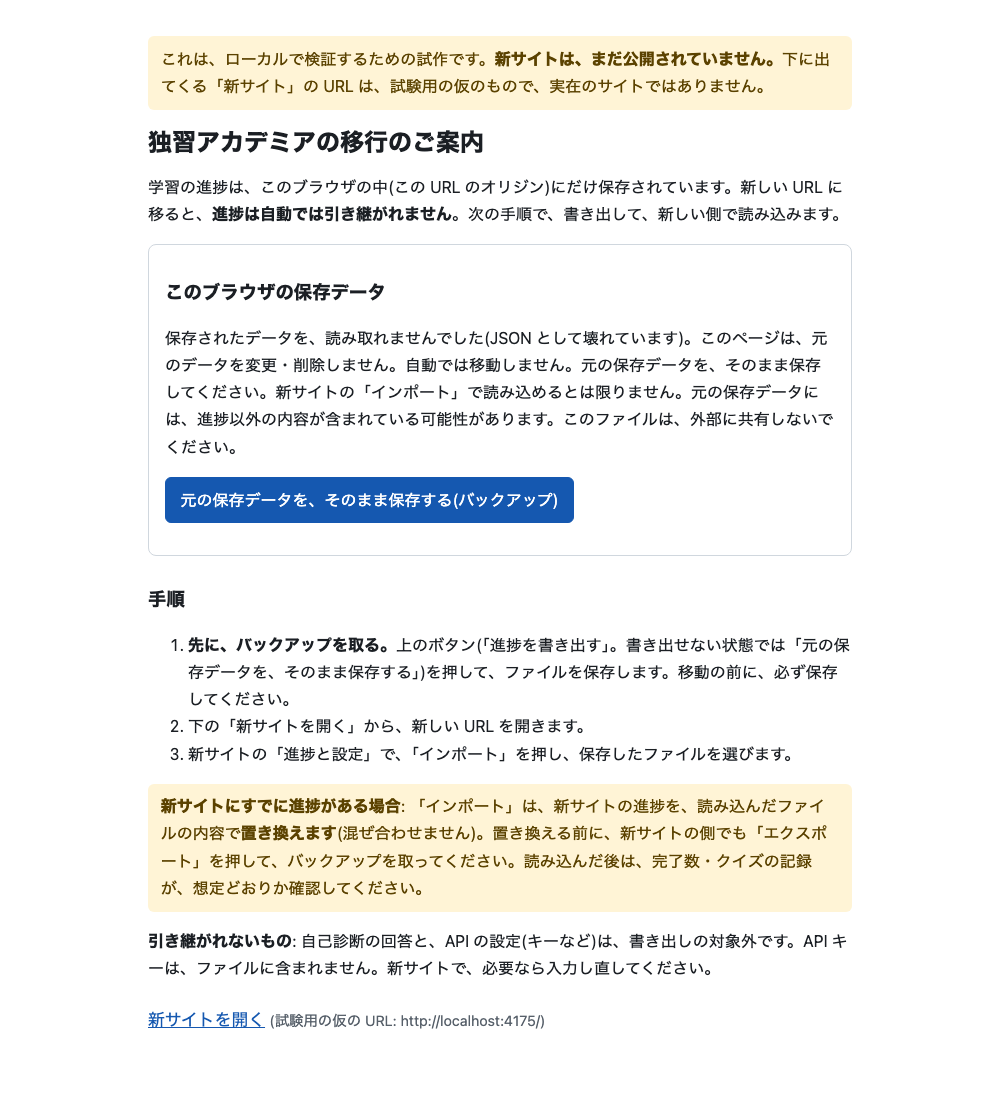
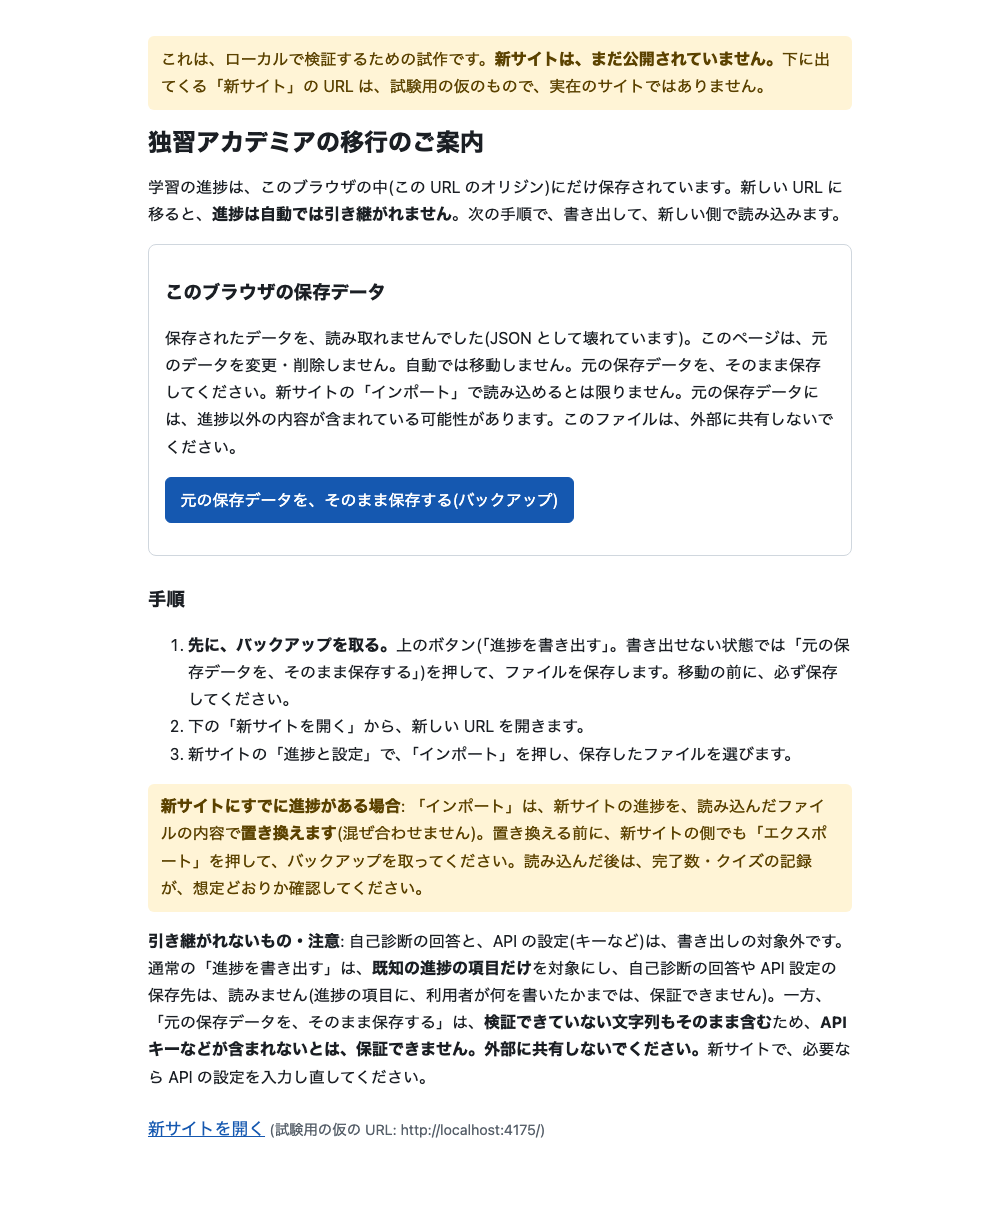
SEO・AEO 旧サイト向けの移行案内: 共通案内の API キーの断定を限定し、AUTO_FORWARD の入力違いを拒否する(Issue #23)

Changed region(s): [[0.124, 0.0309, 0.868, 0.9591]]

diff --git a/e2e/legacy-rescue.legacy.spec.ts b/e2e/legacy-rescue.legacy.spec.ts
@@ -440,3 +440,36 @@ test.describe('ビルドの安全条件と、運営者の転送停止設定', ()
     await context.close()
   })
 })
+
+test.describe('共通案内の文面の整合(Codex の再レビュー対応)', () => {
+  test('共通案内は、「API キーはファイルに含まれない」と断定せず、通常の書き出しに限定し、生データの保存は保証できないと示す(JS 無効でも表示される)', async ({ browser }) => {
+    const src = readFileSync('legacy-rescue/index.html', 'utf8')
+    expect(src).not.toContain('API キーは、ファイルに含まれません')
+    for (const state of [{ js: true, seed: JSON.stringify(full) }, { js: true, seed: '{broken' }, { js: false, seed: null }]) {
+      const context = await browser.newContext({ javaScriptEnabled: state.js })
+      if (state.js) await prepare(context, state.seed)
+      const page = await context.newPage()
+      await page.goto(OLD)
+      const text = await page.locator('main').innerText()
+      expect(text).toContain('既知の進捗の項目だけ')
+      expect(text).toContain('API キーなどが含まれないとは、保証できません')
+      expect(text).toContain('外部に共有しないでください')
+      expect(text).not.toContain('API キーは、ファイルに含まれません')
+      await context.close()
+    }
+  })
+
+  test('AUTO_FORWARD は、on / off 以外(OFF・0・false・空・yes)ならビルドを拒否する(入力違いで転送が有効にならない)', () => {
+    for (const v of ['OFF', 'Off', '0', 'false', '', 'yes', 'no']) {
+      const out = join(mkdtempSync(join(tmpdir(), 'legacy-rescue-')), 'out')
+      const r = spawnSync('node', ['scripts/build-legacy-rescue.mjs'], { env: { ...process.env, AUTO_FORWARD: v, OUT_DIR: out }, encoding: 'utf8' })
+      expect(r.status, JSON.stringify(v)).toBe(1)
+      expect(existsSync(out), JSON.stringify(v)).toBe(false)
+    }
+    for (const v of ['on', 'off']) {
+      const out = join(mkdtempSync(join(tmpdir(), 'legacy-rescue-')), 'out')
+      const r = spawnSync('node', ['scripts/build-legacy-rescue.mjs'], { env: { ...process.env, AUTO_FORWARD: v, OUT_DIR: out }, encoding: 'utf8' })
+      expect(r.status, v).toBe(0)
+    }
+  })
+})

diff --git a/legacy-rescue/index.html b/legacy-rescue/index.html
@@ -38,7 +38,7 @@
           <li>新サイトの「進捗と設定」で、「インポート」を押し、保存したファイルを選びます。</li>
         </ol>
         <p class="warn"><strong>新サイトにすでに進捗がある場合</strong>: 「インポート」は、新サイトの進捗を、読み込んだファイルの内容で<strong>置き換えます</strong>(混ぜ合わせません)。置き換える前に、新サイトの側でも「エクスポート」を押して、バックアップを取ってください。読み込んだ後は、完了数・クイズの記録が、想定どおりか確認してください。</p>
-        <p><strong>引き継がれないもの</strong>: 自己診断の回答と、API の設定(キーなど)は、書き出しの対象外です。API キーは、ファイルに含まれません。新サイトで、必要なら入力し直してください。</p>
+        <p><strong>引き継がれないもの・注意</strong>: 自己診断の回答と、API の設定(キーなど)は、書き出しの対象外です。通常の「進捗を書き出す」は、<strong>既知の進捗の項目だけ</strong>を対象にし、自己診断の回答や API 設定の保存先は、読みません(進捗の項目に、利用者が何を書いたかまでは、保証できません)。一方、「元の保存データを、そのまま保存する」は、<strong>検証できていない文字列もそのまま含む</strong>ため、<strong>API キーなどが含まれないとは、保証できません。外部に共有しないでください。</strong>新サイトで、必要なら API の設定を入力し直してください。</p>
       </section>
 
       <p class="newsite"><a id="link-new" href="http://localhost:4175/">新サイトを開く</a> <span class="muted">(試験用の仮の URL: <span id="new-origin">http://localhost:4175/</span>)</span></p>

diff --git a/docs/seo/legacy-rescue.md b/docs/seo/legacy-rescue.md
@@ -10,7 +10,7 @@
 |---|---|
 | `legacy-rescue/index.html`、`rescue.css`、`rescue.js` | アプリ本体とは独立した、静的な 1 ページ(React なし)。案内と、進捗の書き出し |
 | `scripts/build-legacy-rescue.mjs` | `dist-legacy-rescue/`(本番の `dist/` とは別。`.gitignore` 対象)へ出力。新サイトの仮 URL(`NEW_ORIGIN`)を埋め込む。**この試作では、`http://localhost:*` と `http://127.0.0.1:*` だけを許可**し、それ以外は、ビルドを拒否する。出力先が `dist` の別名(`./dist` など)でも拒否 |
-| `e2e/legacy-rescue.legacy.spec.ts` | 検査 43 件(下記) |
+| `e2e/legacy-rescue.legacy.spec.ts` | 検査 45 件(下記) |
 | `docs/seo/legacy-rescue/*.png` | 1000px と 390px の画面(6 状態×2 幅) |
 
 コマンド: `npm run build:legacy-rescue`、`npm run serve:legacy-rescue`(旧サイトの模擬。`http://localhost:4177/dokushu-academia/`)。新サイトの模擬は、`npm run build:path:root`(`dist-path-root/`、`http://localhost:4175/`)。**2 つは別のオリジン**で、`localStorage` が分かれる(旧→新を模す)。
@@ -37,7 +37,7 @@
 - **運営者の設定**: ビルド時の `AUTO_FORWARD=off` で、自動転送を一括で無効にできる(手動のリンクだけ。利用者の「止める」ボタンとは別)。新サイト側の障害時に、旧側から送り直さないための、事前に検証できる設定(`rollout.md` §8 の切り戻し)。
 - 書き出しの形式は、アプリの `exportJson`(`questions`・`reading` を補い、整形する)と同じ。新サイトの既存の「インポート」に、そのまま通る。
 - 旧ハッシュ URL(`#/lesson/pm-1`、`#/search?q=PM` など)は、新サイトの URL に対応付ける(パスに末尾スラッシュ、search・hash はそのまま)。`//`、バックスラッシュ、制御文字、`.`・`..` の区間(エンコード含む)は、**対応付けず、新サイトのトップを示す**(外部やベース外へは、移動しない)。手動リンクにも、同じ先を使う。
-- 案内の文面: 新サイトの(仮)URL、先にバックアップを取る手順、書き出し→新側「インポート」の手順、**新サイトにすでに進捗がある場合、「インポート」は置き換える(混ぜない)ので、新側のバックアップを先に取る**こと、自己診断の回答と API の設定は、対象外(API キーは、ファイルに含まれない)こと。「実在の新サイトが公開済み」とは、書いていない。
+- 案内の文面: 新サイトの(仮)URL、先にバックアップを取る手順、書き出し→新側「インポート」の手順、**新サイトにすでに進捗がある場合、「インポート」は置き換える(混ぜない)ので、新側のバックアップを先に取る**こと、自己診断の回答と API の設定は、書き出しの対象外であること。**通常の「進捗を書き出す」は、既知の進捗の項目だけを対象にし、自己診断の回答や API 設定の保存先は、読まない**(進捗の項目に、利用者が何を書いたかまでは、保証しない)。**「元の保存データを、そのまま保存する」は、検証できていない文字列も含むため、API キーなどが含まれないとは保証できず、外部に共有しないよう案内する**(共通の案内にも、同じ限定を書いた。「API キーは、ファイルに含まれません」という一律の断定は、しない)。「実在の新サイトが公開済み」とは、書いていない。
 - JavaScript が無効: 案内と手動リンクは、静的な HTML にある。保存データの欄は、「確認には JavaScript が必要です」と出す(「確認中」のまま止まらない)。
 - 新しい同期・混ぜ合わせ(merge)の仕様は、作っていない(新サイトの既存の「インポート」の動作のまま)。
 
@@ -47,7 +47,7 @@
 
 **コマンド**: `npm run build:legacy-rescue && npm run build:path:root && npm run build:path && npx playwright test --project=legacy`(2026-10-15)。
 
-**結果: 43 件が成功**(初回の 27 件 + Codex のレビュー対応の 16 件)。コマンド: `npm run build:legacy-rescue && npm run build:path:root && npm run build:path && npx playwright test --project=legacy`。
+**結果: 45 件が成功**(初回の 27 件 + Codex のレビュー対応の 16 件 + 再レビュー対応の 2 件)。コマンド: `npm run build:legacy-rescue && npm run build:path:root && npm run build:path && npx playwright test --project=legacy`。
 
 | 検査 | 結果 |
 |---|---|
@@ -69,13 +69,15 @@
 | **(レビュー対応)** 待っている間に、別のタブで進捗が増えた: 移動せず、書き出しの表示に切り替わる | 成功 |
 | **(レビュー対応)** ビルド: 外部の `NEW_ORIGIN`(`https://example.com`、`http://localhost.evil.com`、`https://localhost`、プライベートアドレス)は拒否し、出力しない。localhost・127.0.0.1 は許可。出力先が `dist` の別名なら拒否し、`dist` を消さない | 成功(2) |
 | **(レビュー対応)** 運営者の設定 `AUTO_FORWARD=off`: 保存なしでも移動せず、手動のリンクだけ | 成功 |
+| **(再レビュー対応)** 共通案内が、「API キーはファイルに含まれない」と断定せず、通常の書き出しに限定し、生データの保存は保証できないと示す(進捗あり・破損・JS 無効の 3 状態で確認) | 成功 |
+| **(再レビュー対応)** `AUTO_FORWARD` は、`on` / `off` 以外(`OFF`・`Off`・`0`・`false`・空・`yes`・`no`)なら、ビルドを拒否し、出力しない | 成功 |
 | `rescue.js` に、書き込み・削除・送信・計測・全体の列挙の語がない(静的) | 成功 |
 | 通信は、旧サイトのオリジンの静的ファイルだけ(POST なし、外部ホストなし) | 成功 |
 | API キーのような別のキー(テスト用の偽の値)が保存されていても、書き出しに含まれず、読まれない(読んだキーは、進捗のキーだけ) | 成功 |
 
 **目視(2026-10-15)**: 1000px と 390px で、6 状態(進捗あり、JSON 破損、未知の形式、保存なし、読み取り失敗、JS 無効)を確認した(`docs/seo/legacy-rescue/`)。横にはみ出さず(`scrollWidth` が画面幅と同じ)、手順と注意の文面が読める。目視で、「書き出しボタンがない状態で、手順が『進捗を書き出す』だけを指す」点を見つけ、文面を直した。
 
-**回帰**: `npx playwright test`(desktop・mobile・path・diag・legacy)で、1058 件が成功(3 件スキップ。ハッシュ版の回帰を含む。2026-10-15、レビュー対応後)。型チェック・`npm run build` も成功。
+**回帰**: `npx playwright test`(desktop・mobile・path・diag・legacy)で、1060 件が成功(3 件スキップ。ハッシュ版の回帰を含む。再レビュー対応後)。型チェック・`npm run build` も成功。
 
 ## 4. 未検証(本番の条件)
 
@@ -102,3 +104,10 @@
 | 望ましい: 移動の直前に、保存状態を再確認する | **対応**(別のタブで進捗が増えても、守る) |
 | 望ましい: ビルドの localhost 許可・外部拒否と、出力先の `dist` の別名の拒否を、自動テストに残す | **対応**(2 件) |
 | (PR #28 のレビューで指摘された)運営者向けの、転送を一括で無効にする設定 | **この試作で対応**(`AUTO_FORWARD=off`)。切り戻しの設計は、`rollout.md` §8 |
+
+## 7. Codex の再レビューへの対応(対象 9a0bf42)
+
+| 指摘 | 対応 |
+|---|---|
+| 必須: 共通案内の「API キーは、ファイルに含まれません」を、通常の進捗の書き出しに限定する | **対応**。`legacy-rescue/index.html` の注意書きを、「通常の書き出しは、既知の進捗の項目だけが対象(自己診断の回答や API 設定の保存先は、読まない。進捗の項目に、利用者が何を書いたかは、保証できない)。元の保存データを、そのまま保存するファイルは、検証できていない文字列も含むため、API キーなどが含まれないとは保証できない。外部に共有しないでください」に改めた。`RAW_NOTE` は維持。画面全体の文面に、矛盾する断定がないことを、検査(3 状態)と目視(1000px・390px の 6 状態)で確認した |
+| 望ましい: `AUTO_FORWARD` の `on` / `off` 以外を、エラーにする | **対応**。`OFF` などの入力違いで、意図せず転送が有効にならないよう、ビルドを拒否する(検査あり)。**本番向けにする前の指摘だったが、小さい変更なので、この PR で対応した** |
